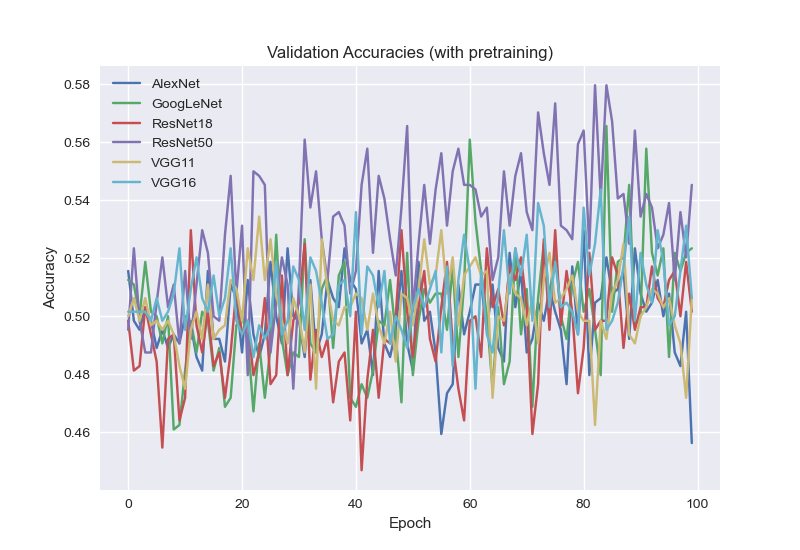
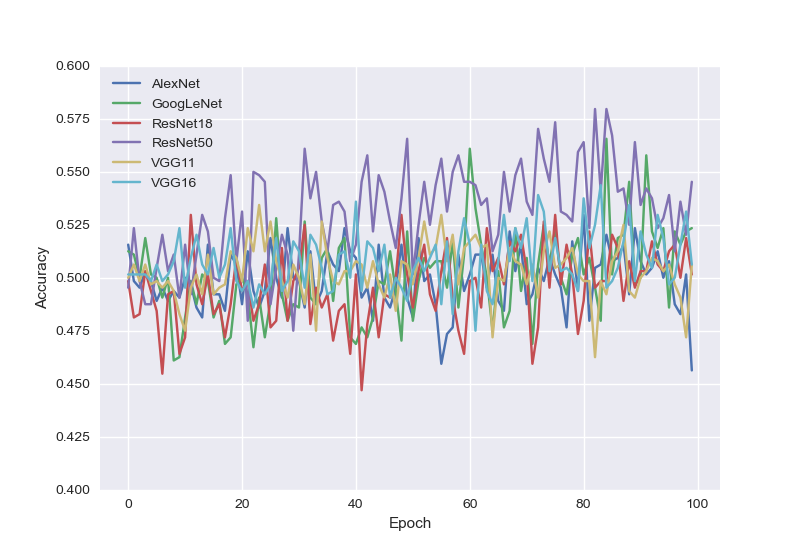
changed name of analysis utils to process results

diff --git a/process_results.py b/process_results.py
@@ -146,8 +146,11 @@ def graph_all_results(study_1=True):
     plt.style.use("seaborn")
     if study_1:
         expt_dir = config.expt1_dir
+        ax_ylim = [0.45,0.72]
     else:
         expt_dir= config.expt2_dir
+        ax_ylim = [0.4,0.6]
+
     leg1 = []
     leg2 = []
     for net_name in os.listdir(expt_dir):
@@ -174,26 +177,28 @@ def graph_all_results(study_1=True):
     plt.xlabel("Epoch")
     plt.ylabel("Accuracy")
     plt.legend(leg1)
-    plt.title("Validation Accuracies (no pretraining)")
+    # plt.title("Validation Accuracies (no pretraining)")
+    plt.ylim(ax_ylim)
     plt.savefig(os.path.join(expt_dir, "Validation Accuracies (no pretraining).png"))
     plt.figure(2)
     plt.xlabel("Epoch")
     plt.ylabel("Loss")
     plt.legend(leg2)
-    plt.title("Validation Losses (no pretraining)")
+    # plt.title("Validation Losses (no pretraining)")
     plt.savefig(os.path.join(expt_dir, "Validation Losses (no pretraining).png"))
 
     plt.figure(3)
     plt.xlabel("Epoch")
     plt.ylabel("Accuracy")
     plt.legend(leg1)
-    plt.title("Validation Accuracies (with pretraining)")
+    # plt.title("Validation Accuracies (with pretraining)")
+    plt.ylim(ax_ylim)
     plt.savefig(os.path.join(expt_dir, "Validation Accuracies (with pretraining).png"))
     plt.figure(4)
     plt.xlabel("Epoch")
     plt.ylabel("Loss")
     plt.legend(leg2)
-    plt.title("Validation Losses (with pretraining)")
+    # plt.title("Validation Losses (with pretraining)")
     plt.savefig(os.path.join(expt_dir, "Validation Losses (with pretraining)"))
     plt.close("all")
     return

diff --git a/train_test_utils.py b/train_test_utils.py
@@ -227,7 +227,7 @@ def train_test_network(net_name, study_1=True):
     return
 
 
-if __name__ == "__main__":
+# if __name__ == "__main__":
     # for net in config.DNNs:
     #     train_nets_all_seeds(net,study_1=True)
     #     train_nets_all_seeds(net,study_1=False)
@@ -242,7 +242,7 @@ if __name__ == "__main__":
     # train_nets_all_seeds("AlexNet (pretrained)", study_1=False)
     # train_nets_all_seeds("VGG11 (pretrained)", study_1=False)
     # train_nets_all_seeds("VGG16 (pretrained)", study_1=False)
-    train_nets_all_seeds("ResNet18 (pretrained)", study_1=False)
+    # train_nets_all_seeds("ResNet18 (pretrained)", study_1=False)
     # train_nets_all_seeds("ResNet50 (pretrained)", study_1=False)
     # train_nets_all_seeds("GoogLeNet (pretrained)", study_1=False)
     #

diff --git a/more_utils.py b/more_utils.py
@@ -79,10 +79,11 @@ def cm_arr_to_df(arr):
 
 
 
-if __name__ == "__main__":
-    collate_cmats(config.expt1_dir)
-    collate_cmats(config.expt2_dir)
-    collate_all_results()
-    collate_all_results(scale_factor=0.5)
-    graph_all_results(config.expt1_dir)
-    graph_all_results(config.expt2_dir)
+# if __name__ == "__main__":
+
+    # collate_cmats(config.expt1_dir)
+    # collate_cmats(config.expt2_dir)
+    # collate_all_results()
+    # collate_all_results(scale_factor=0.5)
+    # graph_all_results(config.expt1_dir)
+    # graph_all_results(config.expt2_dir)

diff --git a/ttest.py b/ttest.py
@@ -8,7 +8,7 @@ import matplotlib.pyplot as plt
 from PIL import Image
 from torchvision import transforms
 from initialise_nets import initialise_DNN
-from analysis_utils import avg_gradcam, cm_arr_to_df
+from process_results import avg_gradcam, cm_arr_to_df
 from skimage.segmentation import flood_fill
 from scipy.ndimage.filters import gaussian_filter
 from scipy.stats import levene, ttest_ind, ttest_rel

diff --git a/background_ttest.py b/background_ttest.py
@@ -10,7 +10,7 @@ from PIL import Image
 from preprocessing import Preprocess
 from torchvision import transforms
 from initialise_nets import initialise_DNN
-from analysis_utils import avg_gradcam
+from process_results import avg_gradcam
 from skimage.segmentation import flood_fill
 from scipy.ndimage.filters import gaussian_filter
 from scipy import stats

diff --git a/IoU_vals.py b/IoU_vals.py
@@ -8,7 +8,7 @@ import matplotlib.pyplot as plt
 from PIL import Image
 from torchvision import transforms
 from initialise_nets import initialise_DNN
-from analysis_utils import avg_gradcam
+from process_results import avg_gradcam
 from skimage.segmentation import flood_fill
 from scipy.ndimage.filters import gaussian_filter
 from scipy import stats

diff --git a/all_layers_cam.py b/all_layers_cam.py
@@ -9,7 +9,7 @@ from torchvision import transforms
 from preprocessing import Preprocess
 from initialise_nets import initialise_DNN
 from gcam_utils import gcam_all_imgs, plot_cam_on_img
-from analysis_utils import avg_gradcam
+from process_results import avg_gradcam
 from more_utils import set_seed
 plt.style.use("seaborn")
 
